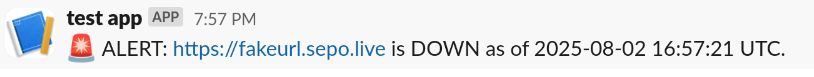
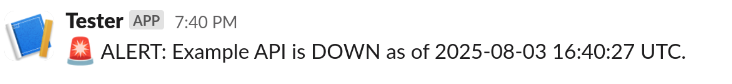
docs: add slack sample output

Changed region(s): [[0.0, 0.0779, 0.9617, 0.8312]]

diff --git a/README.md b/README.md
@@ -65,6 +65,9 @@ endpoints:
 
 <img src="assets/output.png">
 
+<img src="assets/slack.png">
+
+
 
 ## 🔧 Configuration Options
 
